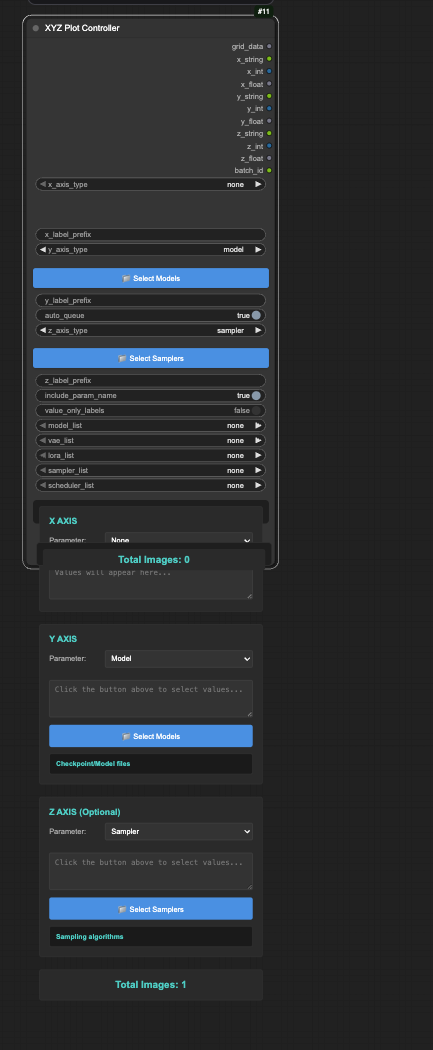
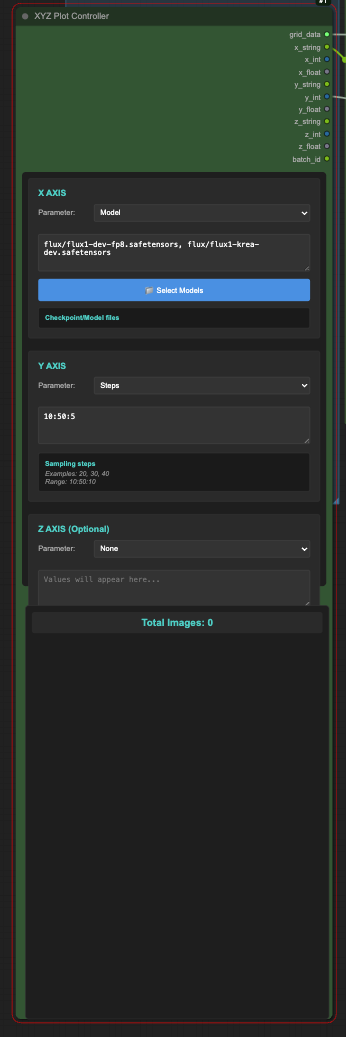
fix: optimize XYZ Plot Controller layout and sizing
- Reduce padding and margins throughout for more compact display
- Decrease font sizes appropriately (11px for inputs, 10px for info)
- Set fixed node dimensions (350x520) for consistent appearance
- Limit textarea heights to prevent excessive vertical space
- Adjust button and info box styling for tighter layout
- Override computeSize to maintain proper dimensions

diff --git a/web/xyz_plot_controller.js b/web/xyz_plot_controller.js
@@ -301,14 +301,14 @@ function createEnhancedUI(node) {
         <style>
             .xyz-controller-ui {
                 font-family: Arial, sans-serif;
-                padding: 10px;
+                padding: 5px;
                 background: #1e1e1e;
-                border-radius: 6px;
+                border-radius: 4px;
                 color: #ddd;
             }
             .xyz-axis-group {
-                margin-bottom: 20px;
-                padding: 15px;
+                margin-bottom: 12px;
+                padding: 10px;
                 background: #2a2a2a;
                 border-radius: 4px;
                 border: 1px solid #333;
@@ -316,84 +316,89 @@ function createEnhancedUI(node) {
             .xyz-axis-header {
                 font-weight: bold;
                 color: #4ecdc4;
-                margin-bottom: 10px;
-                font-size: 14px;
+                margin-bottom: 8px;
+                font-size: 12px;
             }
             .xyz-axis-row {
                 display: flex;
                 align-items: center;
-                margin-bottom: 10px;
-                gap: 10px;
+                margin-bottom: 8px;
+                gap: 8px;
             }
             .xyz-axis-label {
-                width: 80px;
-                font-size: 12px;
+                width: 70px;
+                font-size: 11px;
                 color: #aaa;
             }
             .xyz-axis-select {
                 flex: 1;
-                padding: 5px;
+                padding: 4px;
                 background: #333;
                 border: 1px solid #444;
                 border-radius: 3px;
                 color: #fff;
-                font-size: 12px;
+                font-size: 11px;
+                height: 24px;
             }
             .xyz-axis-values {
                 width: 100%;
-                margin-top: 10px;
-                padding: 8px;
+                margin-top: 8px;
+                padding: 6px;
                 background: #333;
                 border: 1px solid #444;
                 border-radius: 3px;
                 color: #fff;
-                font-size: 12px;
-                min-height: 60px;
+                font-size: 11px;
+                min-height: 40px;
+                max-height: 60px;
                 resize: vertical;
             }
             .xyz-select-button {
                 width: 100%;
-                margin-top: 8px;
-                padding: 8px;
+                margin-top: 6px;
+                padding: 6px;
                 background: #4a90e2;
                 color: white;
                 border: none;
-                border-radius: 4px;
+                border-radius: 3px;
                 cursor: pointer;
-                font-size: 12px;
+                font-size: 11px;
                 transition: all 0.2s;
             }
             .xyz-select-button:hover {
                 background: #357abd;
                 transform: translateY(-1px);
-                box-shadow: 0 3px 6px rgba(0,0,0,0.3);
+                box-shadow: 0 2px 4px rgba(0,0,0,0.3);
             }
             .xyz-info-box {
-                margin-top: 10px;
-                padding: 10px;
+                margin-top: 6px;
+                padding: 6px 8px;
                 background: #1a1a1a;
-                border-radius: 4px;
-                font-size: 11px;
+                border-radius: 3px;
+                font-size: 10px;
                 border: 1px solid #333;
             }
             .xyz-info-box strong {
                 color: #4ecdc4;
+                font-size: 10px;
             }
             .xyz-info-example {
                 color: #888;
                 font-style: italic;
                 white-space: pre-wrap;
-                margin-top: 5px;
+                margin-top: 3px;
+                font-size: 9px;
             }
             .xyz-total-count {
                 text-align: center;
-                padding: 15px;
+                padding: 10px;
                 background: #2a2a2a;
                 border-radius: 4px;
-                font-size: 16px;
+                font-size: 14px;
                 font-weight: bold;
                 color: #4ecdc4;
                 border: 1px solid #333;
+                margin-top: 5px;
             }
             .xyz-total-count.warning {
                 color: #ffaa00;
@@ -671,8 +676,25 @@ app.registerExtension({
                 // Add our custom widget to the widgets array
                 this.widgets = [customWidget];
                 
-                // Set node size
-                this.size = [400, 850];
+                // Override computeSize to handle our custom widget
+                const originalComputeSize = this.computeSize;
+                this.computeSize = function() {
+                    if (originalComputeSize) {
+                        originalComputeSize.call(this);
+                    }
+                    // Set width based on content
+                    this.size[0] = 350;
+                    // Set height based on our fixed layout
+                    this.size[1] = 520; // Approximate height for all 3 axis groups
+                    
+                    // Account for title bar
+                    if (this.title) {
+                        this.size[1] += 30;
+                    }
+                };
+                
+                // Initial size computation
+                this.computeSize();
             };
         }
     }
